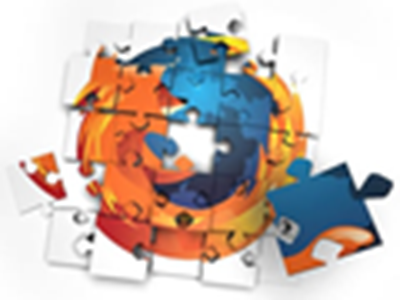
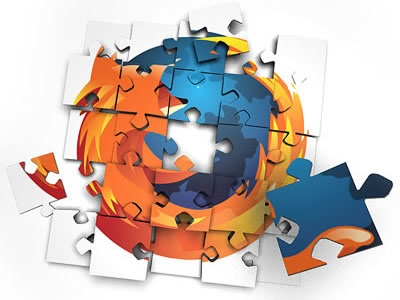
Fixed add-on
Fixed firefox add on logo quality

diff --git a/Assignment2_part1.html b/Assignment2_part1.html
@@ -138,9 +138,9 @@
           alt="Mozilla dinosaur head logo.">
         </a>
         <a href="https://addons.mozilla.org/">
-          <img srcset="firefox_addons400.png 400w, firefox_addons120.png 120w"
+          <img srcset="firefox-addons400.png 400w, firefox-addons120.png 120w"
           sizes="(max-width: 600px) 120px, 400px"
-          src="firefox_addons400.png"
+          src="firefox-addons400.png"
           alt="Fire fox add-on logo.">
         </a>
         <a href="https://developer.mozilla.org/en-US/">
